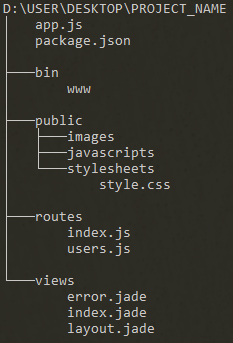
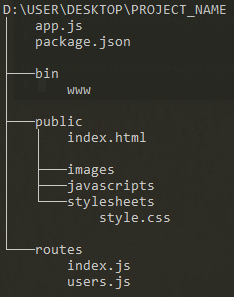
Add leaflet code

Changed region(s): [[0.0, 0.0, 0.9914, 0.7576], [0.0, 0.7879, 0.6609, 1.0]]

diff --git a/README.md b/README.md
@@ -30,7 +30,7 @@ Create an express project with the `express` command, replacing `<project_name>`
 * `<project_name>` should be a valid folder name with no spaces and starting with a letter
 
 ```
-express <project_name>
+express <project_name> --no-view
 ```
 
 ### 2.3 Inspect the Project Folder Structure
@@ -39,21 +39,19 @@ A folder named `<project_name>` will be created with the following structure ins
 
 ![project_structure](images/project_structure.png)
 
+* `app.js`: JavaScript file that contains code needed to create and run your express server or application
+* `package.json`: [JSON](https://www.json.org/) structured [package file](https://docs.npmjs.com/files/package.json) holding all the dependencies and information about your project (can be modified with the [npm](https://docs.npmjs.com/cli/npm) command)
 * `/bin`: folder containing executable code
 	* `www`: executable file for starting the server
 * `/public`: folder containing files served to the client side or front end
+	* `index.html`: landing page served to the clients
 	* `/images`: folder containing images to be served to clients
 	* `/javascripts`: folder containing [JavaScript](https://www.w3schools.com/js/) code files to be served to clients
 	* `/stylesheets`: folder containing [Cascading Style Sheets (CSS)](https://www.w3schools.com/css/) files to be served to clients
+		* `style.css`: CSS file used to define how your web page elements will look
 * `/routes`: folder containing JavaScript files for defining [routes](https://expressjs.com/en/guide/routing.html) that direct how the server responds to client requests (these files are often used in file `app.js`)
 	* `index.js`: defines the response to client requests at `<address>/` depending on how it is used in file `app.js`
 	* `users.js`: defines the response to client requests at `<address>/users` depending on how it is used in file `app.js`
-* `/views`: [template files](https://expressjs.com/en/guide/using-template-engines.html) ((jade)[http://jade-lang.com/] by default) for defining how the user will see the html pages served to them
-	* `error.jade`: template file for displaying an error page
-	* `index.jade`: template file for displaying the landing page `<address>/`
-	* `layout.jade`: template file for defining the overall layout of the html content
-* `app.js`: JavaScript file that contains code needed to create and run your express server or application
-* `package.json`: [JSON](https://www.json.org/) structured [package file](https://docs.npmjs.com/files/package.json) holding all the dependencies and information about your project (can be modified with the [npm](https://docs.npmjs.com/cli/npm) command)
 
 ## Step 3. Install Project Dependencies
 
@@ -83,9 +81,42 @@ npm install --save leaflet
 
 ## Step 4. Creating a leaflet Map
 
-Create a file for the leaflet map by sending an empty line with `echo` into `>` a file called `webmap.js`:
+### 4.1 Create leaflet JavaScript File
+
+Create a file for the leaflet map by sending an empty line with `echo.` into `>` a file called `webmap.js`:
 
 ```
-echo > webmap.js
+echo. > webmap.js
 ```
 
+### 4.2 Add leaflet Code
+
+Open `webmap.js` for editing and add the following JavaScript code:
+
+```javascript
+// Import the leaflet package
+var L = require('leaflet');
+
+// Creates a leaflet map binded to an html <div> with id "map"
+// setView will set the initial map view to the location at coordinates
+// 13 represents the initial zoom level
+var map = L.map('map').setView([43.659752, -79.378161], 13);
+
+// Adds the basemap tiles to your web map
+// Additional providers are available at: https://leaflet-extras.github.io/leaflet-providers/preview/
+L.tileLayer('https://{s}.basemaps.cartocdn.com/dark_nolabels/{z}/{x}/{y}{r}.png', {
+	attribution: '&copy; <a href="http://www.openstreetmap.org/copyright">OpenStreetMap</a> &copy; <a href="https://carto.com/attributions">CARTO</a>',
+	subdomains: 'abcd',
+	maxZoom: 19
+}).addTo(map);
+
+// Adds a popup marker to the webmap for GGL address
+L.marker([43.659752, -79.378161]).addTo(map)
+	.bindPopup(
+		'Monetary Times Building, MON 304<br>' +
+		'341 Victoria Street<br>' + 
+		'Toronto, Ontario, Canada<br>' +
+		'M5B 2K3<br><br>' + 
+		'Tel: 416-9795000 Ext. 5192')
+	.openPopup();
+```
